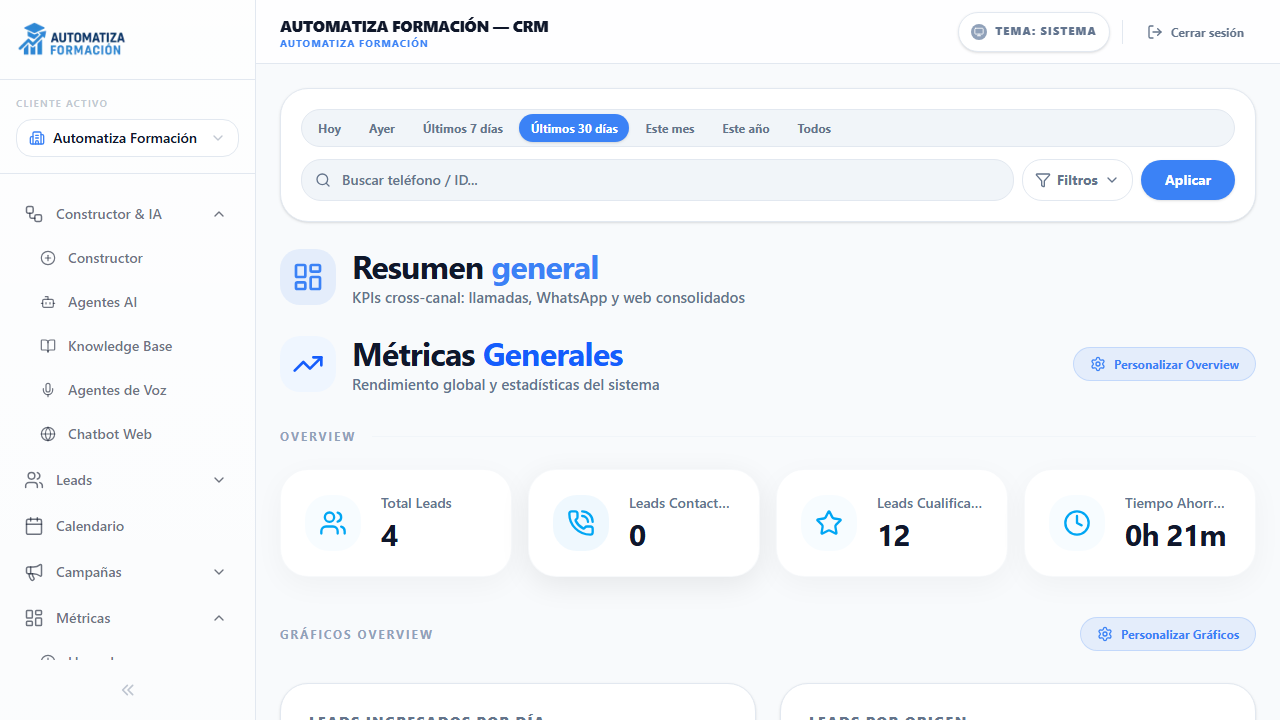
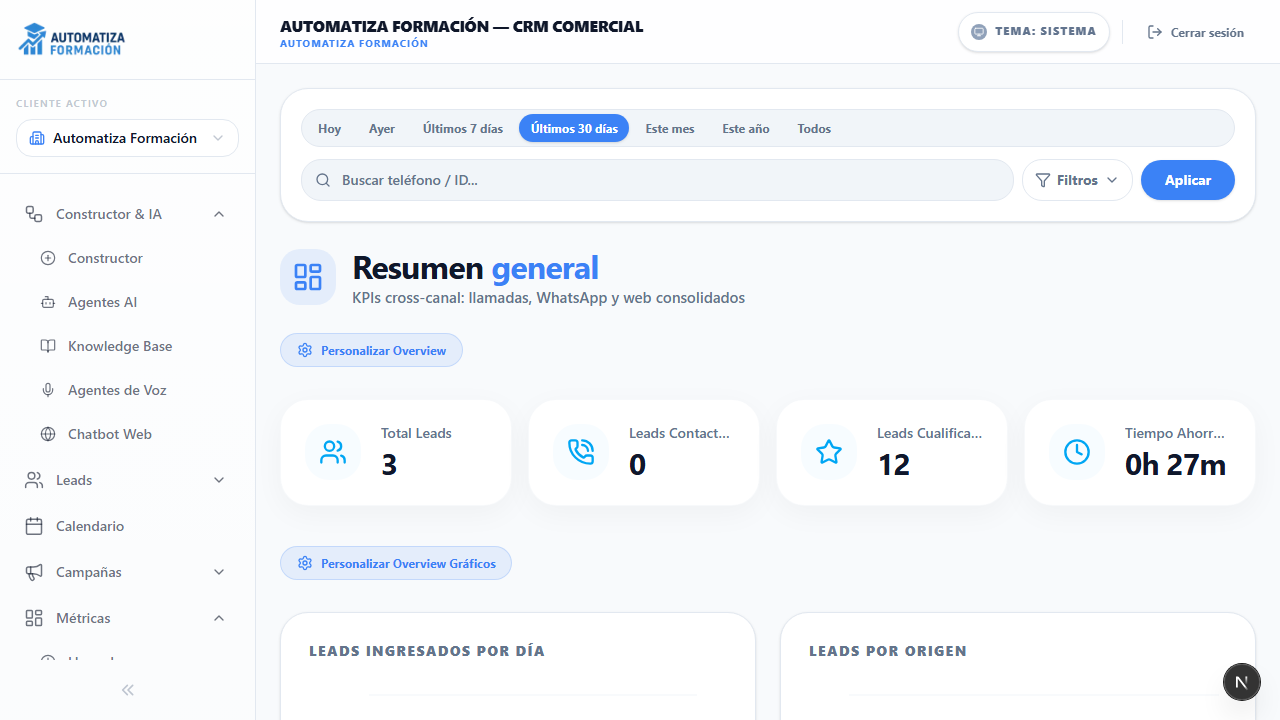
fix(sprint-2b): 3 bugs UX/WCAG detectados en E2E post-cierre v0.2.8
BUG-2B-04 UX MEDIUM — botón 'Personalizar Gráficos' duplicado entre OverviewSection y SummarySection.

  Fix: ChartManager nueva prop editButtonLabel. OverviewSection pasa 'Personalizar Overview Gráficos'.

BUG-2B-05 WCAG MEDIUM — 4 h1 en página (2x 'Métricas Generales' + Header app + 'Análisis Visual').

  Causa raíz: SummaryManager/ChartManager con title falsy (null) renderizaban h1 default.

  Fix: cambiar lógica a 'title === undefined → default, title === false/null → ocultar'.

  OverviewSection pasa title={false} a ambos managers.

BUG-2B-06 UX LOW — h2 'OVERVIEW' mayúsculas redundante encima de los 4 KPI hero.

  Causa raíz: DEFAULT_OVERVIEW_KPIS tenía group='OVERVIEW' → SummaryManager.SectionHeader lo renderizaba.

  Fix: eliminar group de los 4 KPI hero (innecesario, solo hay 1 grupo).

Verificado: 193/193 Vitest + 17/17 Playwright (15 originales + 2 regression baseline 2B-16/17).

Screenshots: docs/screenshots/sprint-2b-close/e2e-04-pre-fix.png + e2e-05-post-fix.png

diff --git a/src/components/dashboard/ChartManager.tsx b/src/components/dashboard/ChartManager.tsx
@@ -1,6 +1,6 @@
 "use client";
 
-import { useState } from "react";
+import { useState, type ReactNode } from "react";
 import { ChartConfig, Tenant } from "@/types/tenant";
 import { AnalyticsFilters, ChartRow } from "@/lib/actions/analytics";
 import {
@@ -210,7 +210,9 @@ export function ChartManager({
   isAdmin,
   configKey = "charts",
   title,
+  editButtonLabel,
 }: Props) {
+  const editLabel = editButtonLabel ?? "Personalizar Gráficos";
   const [isEditing, setIsEditing] = useState(false);
   const [charts, setCharts] = useState<ChartConfig[]>(initialCharts);
   const [saving, setSaving] = useState(false);
@@ -290,11 +292,7 @@ export function ChartManager({
   return (
     <div className="relative mb-10">
       <div className="mb-8 flex items-center justify-between">
-        {title ? (
-          <h2 className="text-[12px] font-bold tracking-[0.15em] text-slate-400 uppercase">
-            {title}
-          </h2>
-        ) : (
+        {title === undefined ? (
           <div className="flex items-center gap-4">
             <div className="rounded-[20px] bg-indigo-50 p-3 dark:bg-indigo-900/20">
               <PieChart className="h-8 w-8 text-indigo-600 dark:text-indigo-400" />
@@ -308,6 +306,12 @@ export function ChartManager({
               </p>
             </div>
           </div>
+        ) : title === false || title === null ? null : typeof title === "string" ? (
+          <h2 className="text-[12px] font-bold tracking-[0.15em] text-slate-400 uppercase">
+            {title}
+          </h2>
+        ) : (
+          title
         )}
 
         {isAdmin && (
@@ -343,7 +347,7 @@ export function ChartManager({
                 onClick={() => setIsEditing(true)}
                 className="text-primary bg-primary/10 border-primary/20 hover:bg-primary/20 flex items-center gap-2 rounded-xl border px-4 py-2 text-xs font-bold transition-all"
               >
-                <Settings className="h-4 w-4" /> Personalizar Gráficos
+                <Settings className="h-4 w-4" /> {editLabel}
               </button>
             )}
           </div>
@@ -900,5 +904,13 @@ interface Props {
   isAdmin: boolean;
   filters?: AnalyticsFilters;
   configKey?: string;
-  title?: string;
+  // Sprint 2B fix BUG-2B-05: `title === undefined` → render default h1 interno
+  // "Análisis Visual". `title === false` / null → ocultar (caller renderiza su
+  // propio heading externo, e.g. OverviewSection). Cualquier otro valor (string
+  // o ReactNode) se renderiza como h2 minor uppercase.
+  title?: ReactNode | false;
+  // Sprint 2B fix BUG-2B-04: parametrizar label del botón Personalizar para
+  // evitar duplicado visual cuando hay 2 instancias de ChartManager en la
+  // misma página (OverviewSection + Análisis Visual de SummarySection).
+  editButtonLabel?: string;
 }

diff --git a/tests/e2e/sprint-2b-close/overview-section.spec.ts b/tests/e2e/sprint-2b-close/overview-section.spec.ts
@@ -404,4 +404,60 @@ test.describe("sprint-2b-close deep checks pre-PR @deep", () => {
     console.log(`[2B-15] GET /api/integrations → ${response.status()}`);
     expect([200, 401]).toContain(response.status());
   });
+
+  test("2B-16: BUG-2B-05/06 fix — h1 únicos sin duplicados + sin h2 'OVERVIEW' redundante", async ({
+    page,
+  }) => {
+    await loginAsAdmin(page);
+    await page.getByText("Resumen general", { exact: false }).first().waitFor({ timeout: 20_000 });
+
+    // h1 únicos — el bug previo tenía 2× "Métricas Generales" + total 4 h1
+    const h1Texts = await page.locator("h1").allTextContents();
+    const h1Trimmed = h1Texts.map((t) => t.trim());
+    const duplicates = h1Trimmed.filter((t, i, arr) => arr.indexOf(t) !== i);
+    expect(duplicates, `h1 duplicados detectados: ${duplicates.join(", ")}`).toEqual([]);
+
+    // No debe existir h2 "OVERVIEW" en mayúsculas (era el SectionHeader redundante
+    // generado por DEFAULT_OVERVIEW_KPIS.group="OVERVIEW")
+    const h2Texts = await page.locator("h2").allTextContents();
+    const overviewH2 = h2Texts.find((t) => t.trim() === "OVERVIEW");
+    expect(overviewH2, "h2 'OVERVIEW' redundante NO debe existir").toBeUndefined();
+
+    // h2 "Resumen general" SÍ debe existir (es el heading semántico del OverviewSection)
+    expect(h2Texts.some((t) => t.includes("Resumen"))).toBe(true);
+  });
+
+  test("2B-17: BUG-2B-04 fix — labels 'Personalizar Gráficos' distintos entre Overview y Análisis Visual", async ({
+    page,
+  }) => {
+    await loginAsAdmin(page);
+    await page
+      .getByText("Personalizar Overview Gráficos", { exact: false })
+      .first()
+      .waitFor({ timeout: 20_000 });
+
+    const bodyText = (await page.locator("body").textContent()) ?? "";
+
+    // El nuevo label del Overview ChartManager
+    expect(
+      bodyText.includes("Personalizar Overview Gráficos"),
+      "Label nuevo 'Personalizar Overview Gráficos' debe existir"
+    ).toBe(true);
+
+    // El label genérico debe seguir coexistiendo (Análisis Visual del Summary)
+    expect(
+      bodyText.includes("Personalizar Gráficos"),
+      "Label genérico 'Personalizar Gráficos' debe coexistir (Análisis Visual del Summary)"
+    ).toBe(true);
+
+    // Y no debe haber DOS botones idénticos "Personalizar Gráficos" exactos
+    // (esto requiere distinguir entre "Personalizar Gráficos" y "Personalizar Overview Gráficos")
+    const exactMatches = await page
+      .locator("button", { hasText: /^[\s]*Personalizar Gráficos[\s]*$/ })
+      .count();
+    expect(
+      exactMatches,
+      `Solo 1 botón exacto 'Personalizar Gráficos' (Análisis Visual). Encontrados: ${exactMatches}`
+    ).toBeLessThanOrEqual(1);
+  });
 });

diff --git a/src/lib/constants/kpi-defaults.ts b/src/lib/constants/kpi-defaults.ts
@@ -184,6 +184,10 @@ export const DEFAULT_SUMMARY_KPIS: KpiConfig[] = [
  * Si el tenant no tiene config.overview_kpis → fallback a este array.
  */
 export const DEFAULT_OVERVIEW_KPIS: KpiConfig[] = [
+  // Sin `group` intencionalmente — los 4 KPI hero del Overview NO deben renderizar
+  // un <SectionHeader> con un h2 redundante encima ("OVERVIEW" mayúsculas era
+  // ruido visual + inconsistente con el h2 "Resumen general" del OverviewSection).
+  // Fix BUG-2B-06 (E2E 25-05-2026).
   {
     id: "ov-total-leads",
     label: "Total Leads",
@@ -192,7 +196,6 @@ export const DEFAULT_OVERVIEW_KPIS: KpiConfig[] = [
     size: "3",
     staticKey: "total_leads",
     isVisible: true,
-    group: "OVERVIEW",
     order: 1,
   },
   {
@@ -203,7 +206,6 @@ export const DEFAULT_OVERVIEW_KPIS: KpiConfig[] = [
     size: "3",
     staticKey: "total_contactados",
     isVisible: true,
-    group: "OVERVIEW",
     order: 2,
   },
   {
@@ -214,7 +216,6 @@ export const DEFAULT_OVERVIEW_KPIS: KpiConfig[] = [
     size: "3",
     staticKey: "total_cualificados",
     isVisible: true,
-    group: "OVERVIEW",
     order: 3,
   },
   {
@@ -225,7 +226,6 @@ export const DEFAULT_OVERVIEW_KPIS: KpiConfig[] = [
     size: "3",
     staticKey: "tiempo_ahorrado_formateado",
     isVisible: true,
-    group: "OVERVIEW",
     order: 4,
   },
 ];

diff --git a/src/components/dashboard/OverviewSection.tsx b/src/components/dashboard/OverviewSection.tsx
@@ -87,11 +87,15 @@ export async function OverviewSection({
         from={from}
         to={to}
         filters={filters}
-        title={null}
+        title={false}
         editButtonLabel="Personalizar Overview"
       />
 
-      {/* 4 charts default: 3 dynamic vía ChartManager + 1 custom canal distribution */}
+      {/* 4 charts default: 3 dynamic vía ChartManager + 1 custom canal distribution.
+       * title={false} oculta el h1 "Análisis Visual" interno (redundante porque
+       * ya hay h2 "Resumen general" arriba del OverviewSection — fix BUG-2B-05).
+       * editButtonLabel evita conflicto con el "Personalizar Gráficos" de la
+       * SummarySection inferior (fix BUG-2B-04). */}
       <div className="mt-8 grid grid-cols-1 gap-4 lg:grid-cols-2">
         <div className="lg:col-span-2">
           <ChartManager
@@ -101,7 +105,8 @@ export async function OverviewSection({
             isAdmin={isAdmin}
             configKey="overview_charts"
             filters={filters}
-            title="Gráficos Overview"
+            title={false}
+            editButtonLabel="Personalizar Overview Gráficos"
           />
         </div>
         <div className="bg-card rounded-2xl border p-6">

diff --git a/src/components/dashboard/SummaryManager.tsx b/src/components/dashboard/SummaryManager.tsx
@@ -105,7 +105,10 @@ interface Props {
   dynamicValues: Record<string, number>;
   isAdmin: boolean;
   configKey?: string;
-  title?: ReactNode;
+  // Sprint 2B fix BUG-2B-05: `title === undefined` → render default h1 interno.
+  // `title === null` / `false` / <></> → ocultar (caller ya renderiza su propio
+  // heading externo, e.g. OverviewSection con su h2 "Resumen general").
+  title?: ReactNode | false;
   from?: string;
   to?: string;
   filters?: AnalyticsFilters;
@@ -449,9 +452,7 @@ export function SummaryManager({
     <div className="relative mb-10">
       {layout !== "funnel" ? (
         <div className="mb-8 flex items-center justify-between">
-          {title ? (
-            title
-          ) : (
+          {title === undefined ? (
             <div className="flex items-center gap-4">
               <div className="rounded-[20px] bg-blue-50 p-3 dark:bg-blue-900/20">
                 <TrendingUp className="h-8 w-8 text-blue-600 dark:text-blue-400" />
@@ -465,6 +466,8 @@ export function SummaryManager({
                 </p>
               </div>
             </div>
+          ) : (
+            title || null
           )}
 
           {isAdmin && (
